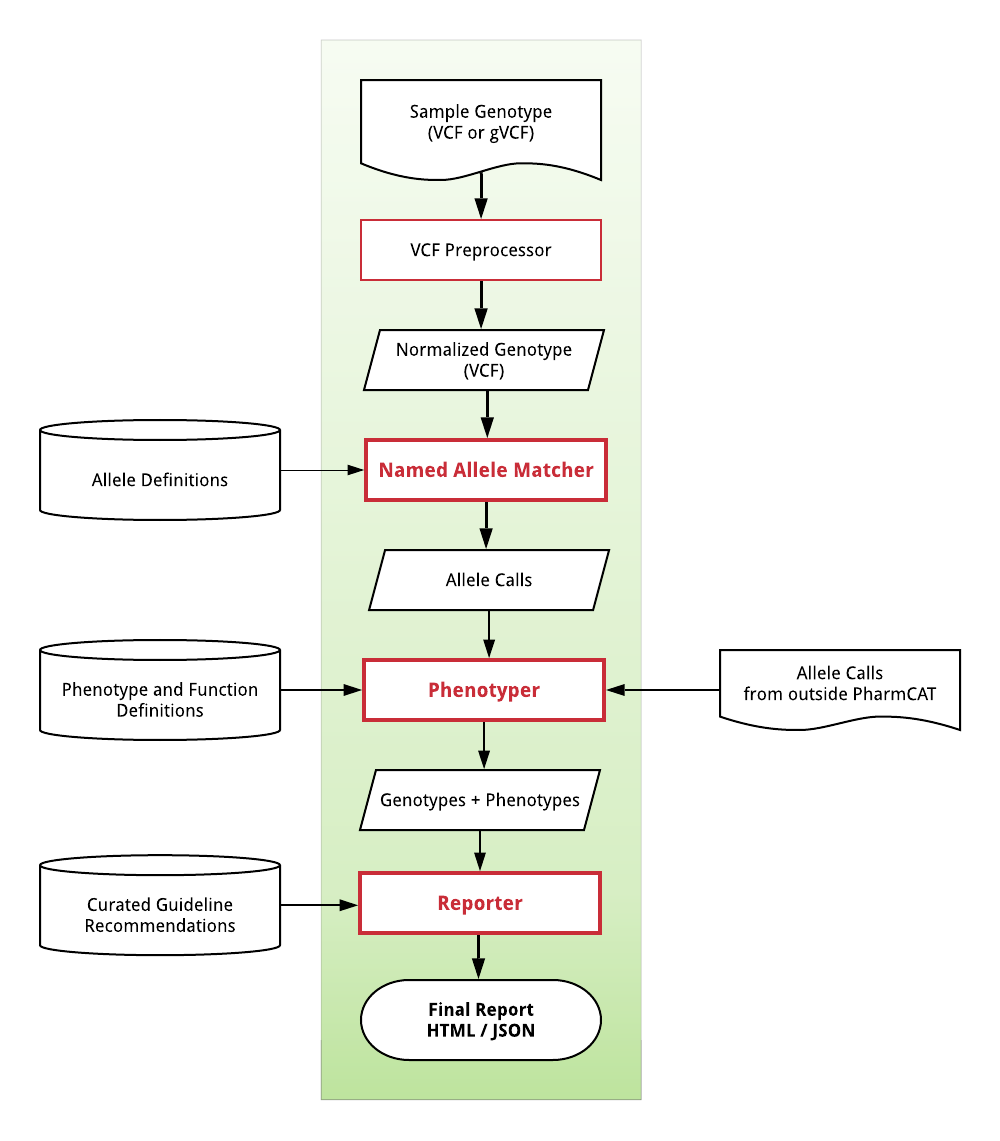
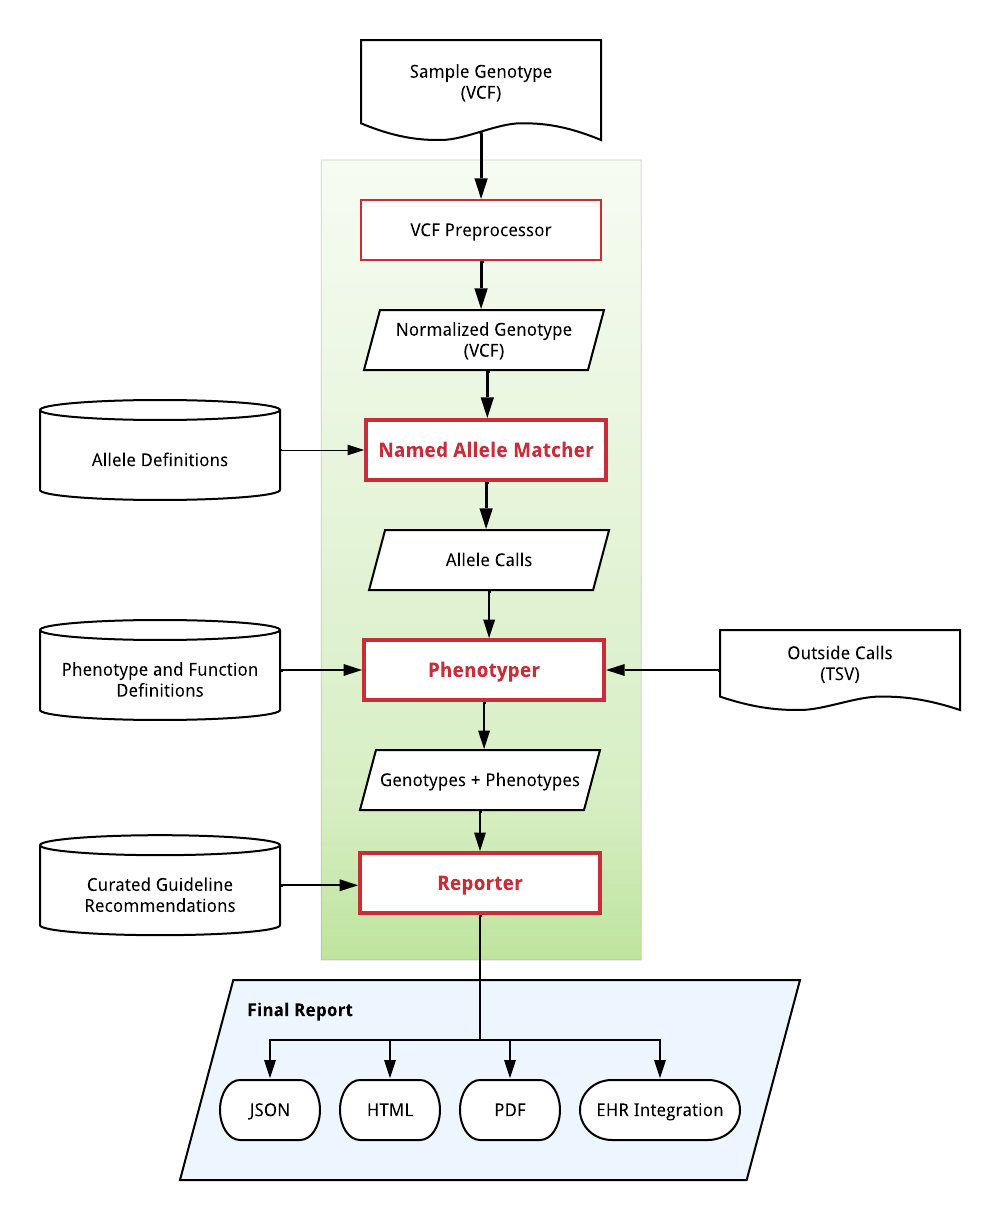
doc: update flowchart and outside calls info

diff --git a/docs/using/Calling-CYP2D6.md b/docs/using/Calling-CYP2D6.md
@@ -66,7 +66,7 @@ For more information:
 
 As mentioned above, if you have whole genome sequencing (WGS) CRAM/BAM files, your best option is a tool like StellarPGx.  Please note we are not affiliated with the StellarPGx team and offer no guarantees about its performance. Any questions or concerns on StellarPGx should be directed to the StellarPGx maintainer at [twesigomwedavid@gmail.com](twesigomwedavid@gmail.com). Usage instructions for StellarPGx can be found on their [GitHub repo](https://github.com/SBIMB/StellarPGx).
 
-While this tutorial is StellarPGx specific, it should illustrate how to integrate outside calls by other tools.
+While this tutorial is StellarPGx specific, it should illustrate how to integrate genotype calls from other tools.
 
 After running StellarPGx with CYP2D6 as the target gene, it should produce a `<run_name>_summary.txt` file which looks like:
 

diff --git a/docs/specifications/Outside-Call-Format.md b/docs/specifications/Outside-Call-Format.md
@@ -12,6 +12,9 @@ diplotypes, phenotypes, or other allele calls to PharmCAT that were called by ot
 These **outside call files** can be supplied to the [PharmCAT](/using/Running-PharmCAT#outside-calls) tool using the 
 `-po` flag.
 
+Calls specified in this file will override results from the `Named Allele Matcher`.
+
+
 ## File format
 
 The **outside call file** format is a tab-separated file. Lines starting with `#` will be ignored.
@@ -34,5 +37,6 @@ HLA-B		*57:01 positive
 MT-RNR1	1555A>G
 ```
 
-Note that the HLA-B line has two tabs between the gene name and the allele presence. Also, the MT-RNR1 line specifies a 
-since that gene is monoploid.
+Notes:
+* the HLA-B line has two tabs between the gene name and the gene result (`*57:01 positive`)
+* the MT-RNR1 line specifies a single allele call since that gene is monoploid
